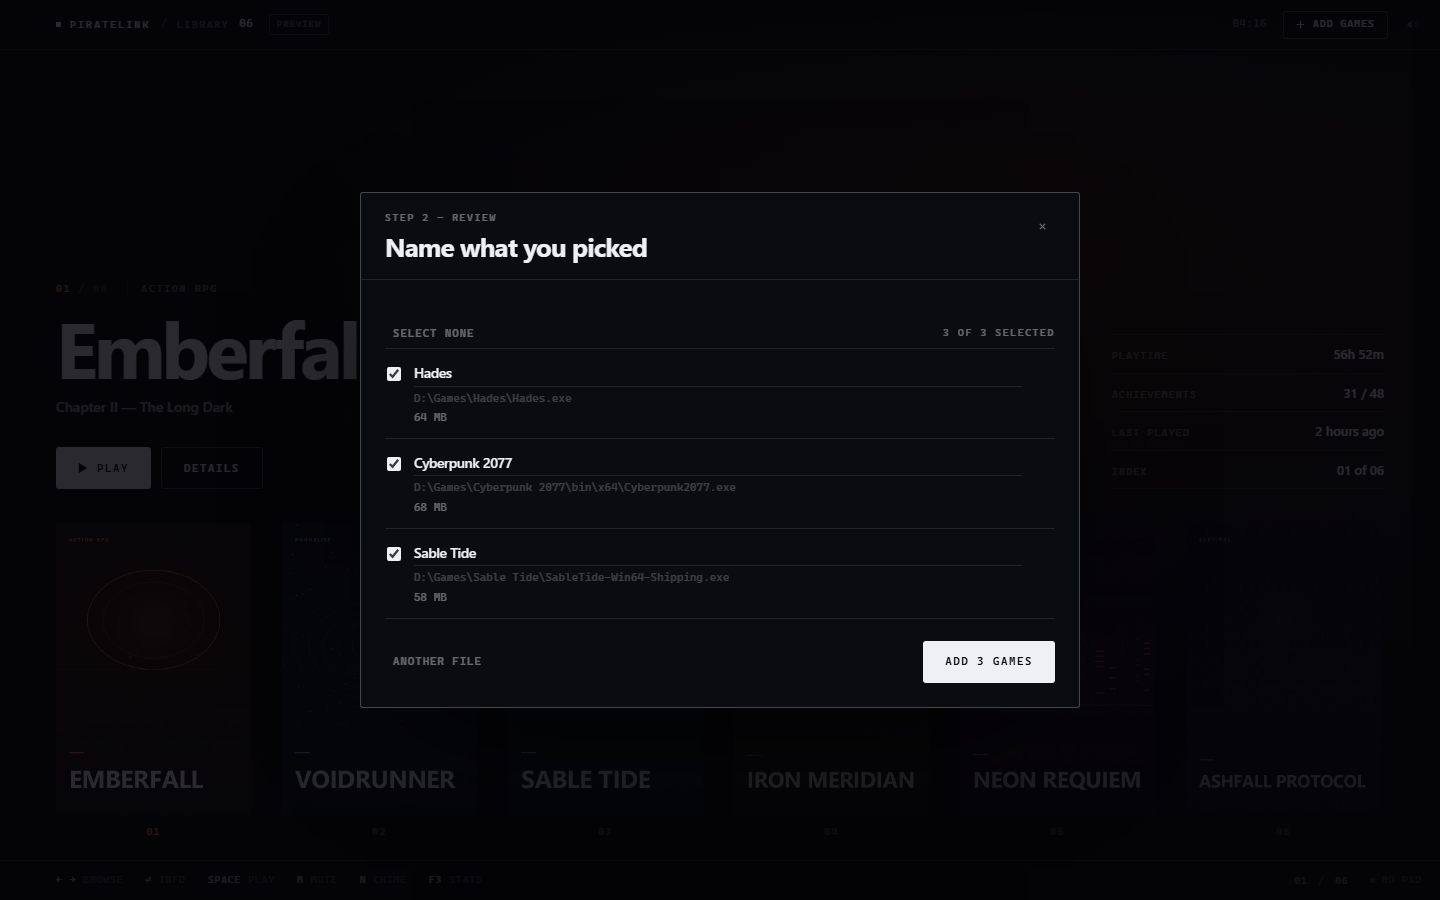
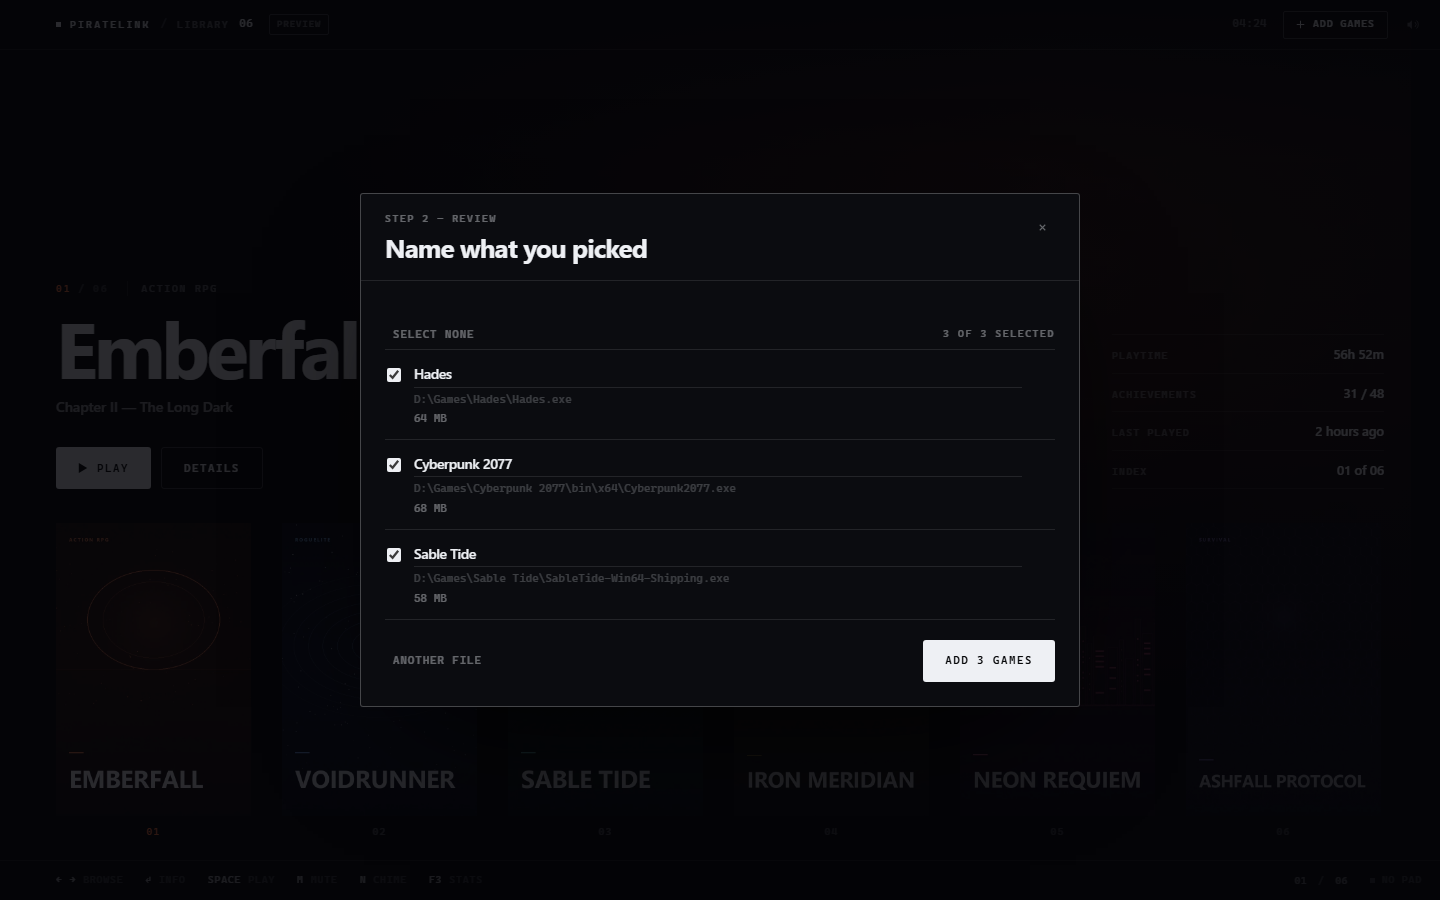
Import: say when the dialog is simulated, and handle files already in the library
The browser preview answers pickExecutables from a fixed list, which looks
exactly like a real, empty file dialog. The sheet now says so in place of
the 'pick one' hint, so nobody tests the naming rules against demo paths.

Picking a game that is already on the shelf used to leave three identical
rows with no explanation; they now come back dimmed and disabled with
'already added', the toolbar says there is nothing to add, and the add
button is disabled rather than offering 'Add 0 games'.

Also: an emptied title field falls back to the folder-derived suggestion
instead of the filename, and the short steps no longer pin a footer to the
bottom of an empty frame.

diff --git a/src/lib/components/ImportSheet.svelte b/src/lib/components/ImportSheet.svelte
@@ -4,6 +4,7 @@
     addGame,
     fetchArtwork,
     inspectExecutable,
+    isTauri,
     pickExecutables,
     type ExecutableInfo,
   } from "../library";
@@ -21,7 +22,9 @@
   } = $props();
 
   type Step = "choose" | "review" | "importing" | "done";
-  type Entry = ExecutableInfo & { include: boolean };
+  /** `suggested` keeps the folder-derived name, so clearing the field cannot
+   *  fall back to the filename. */
+  type Entry = ExecutableInfo & { include: boolean; suggested: string };
 
   let step = $state<Step>("choose");
   let entries = $state<Entry[]>([]);
@@ -86,7 +89,7 @@
       if (entries.some((entry) => entry.path === path)) continue;
       try {
         const info = await inspectExecutable(path);
-        fresh.push({ ...info, include: !info.already_in_library });
+        fresh.push({ ...info, include: !info.already_in_library, suggested: info.title });
       } catch (err) {
         error = `${path} — ${err instanceof Error ? err.message : String(err)}`;
       }
@@ -117,7 +120,7 @@
     artFailed = 0;
 
     for (const entry of chosen) {
-      const title = entry.title.trim() || entry.path.split(/[\\/]/).pop() || "Untitled";
+      const title = entry.title.trim() || entry.suggested || "Untitled";
       label = title;
       try {
         const id = await addGame(entry.path, title);
@@ -183,14 +186,25 @@
           </p>
           <div class="row">
             <button class="btn" onclick={chooseFiles}>Choose executable</button>
-            <span class="note">Pick one, or several at once.</span>
+            <span class="note">
+              {#if isTauri}
+                Pick one, or several at once.
+              {:else}
+                Browser preview — these paths are demo data, so the dialog is simulated.
+                Run the built app to pick real files.
+              {/if}
+            </span>
           </div>
         {:else if step === "review"}
           <div class="toolbar">
-            <button class="quiet" onclick={toggleAll} disabled={!selectable.length}>
-              {allSelected ? "Select none" : "Select all"}
-            </button>
-            <span class="label">{chosen.length} of {selectable.length} selected</span>
+            {#if selectable.length}
+              <button class="quiet" onclick={toggleAll}>
+                {allSelected ? "Select none" : "Select all"}
+              </button>
+              <span class="label">{chosen.length} of {selectable.length} selected</span>
+            {:else}
+              <span class="label empty">Already in your library — nothing to add</span>
+            {/if}
           </div>
 
           <ul class="list scroll-thin">
@@ -230,10 +244,14 @@
             {/each}
           </ul>
 
-          <div class="row end">
+          <div class="row end footer">
             <button class="quiet" onclick={chooseFiles}>Another file</button>
             <button class="btn" onclick={addSelected} disabled={chosen.length === 0}>
-              Add {chosen.length} {chosen.length === 1 ? "game" : "games"}
+              {#if chosen.length}
+                Add {chosen.length} {chosen.length === 1 ? "game" : "games"}
+              {:else}
+                Add games
+              {/if}
             </button>
           </div>
         {:else if step === "importing"}
@@ -345,8 +363,11 @@
     cursor: default;
   }
 
+  /* `flex: 1` keeps the review list scrollable inside the capped sheet while the
+     footer stays put. */
   .content {
     display: flex;
+    flex: 1;
     flex-direction: column;
     min-height: 0;
     padding: 22px 24px 24px;
@@ -398,7 +419,28 @@
     min-width: 0;
   }
 
+  .row .btn {
+    flex: none;
+    white-space: nowrap;
+  }
+
+  .row .note {
+    flex: 1 1 auto;
+    max-width: 46ch;
+    margin: 0;
+  }
+
+  .row.footer {
+    margin-top: auto;
+    padding-top: 20px;
+  }
+
   .row.end {
+    justify-content: flex-end;
+  }
+
+  /* The review step carries a secondary action on the left. */
+  .row.end.footer {
     justify-content: space-between;
   }
 
@@ -417,12 +459,17 @@
     margin: 20px 0 4px;
   }
 
+  .toolbar .label.empty {
+    margin-left: auto;
+  }
+
   .list {
     list-style: none;
+    flex: 1 1 auto;
+    min-height: 0;
     margin: 0;
     padding: 0;
     overflow-y: auto;
-    max-height: 340px;
     border-top: 1px solid var(--line);
   }
 

diff --git a/src/lib/library.ts b/src/lib/library.ts
@@ -43,7 +43,8 @@ export type ExecutableInfo = {
   already_in_library: boolean;
 };
 
-const isTauri = typeof window !== "undefined" && "__TAURI_INTERNALS__" in window;
+/** True inside the Tauri shell; false in the browser preview, where every command is faked. */
+export const isTauri = typeof window !== "undefined" && "__TAURI_INTERNALS__" in window;
 
 async function invoke<T>(cmd: string, args?: Record<string, unknown>): Promise<T> {
   const core = await import("@tauri-apps/api/core");
@@ -204,14 +205,15 @@ export async function pickExecutables(): Promise<string[]> {
 export async function inspectExecutable(path: string): Promise<ExecutableInfo> {
   if (!isTauri) {
     const known = PREVIEW_EXECUTABLES.find((exe) => exe.path === path);
-    if (known) return known;
+    const already = previewGames.some((game) => game.executable === path);
+    if (known) return { ...known, already_in_library: already };
     const file = path.split(/[\\/]/).pop() ?? path;
     return {
       path,
       title: file.replace(/\.exe$/i, ""),
       install_dir: path.replace(/[\\/][^\\/]+$/, ""),
       size_bytes: 0,
-      already_in_library: false,
+      already_in_library: already,
     };
   }
 
